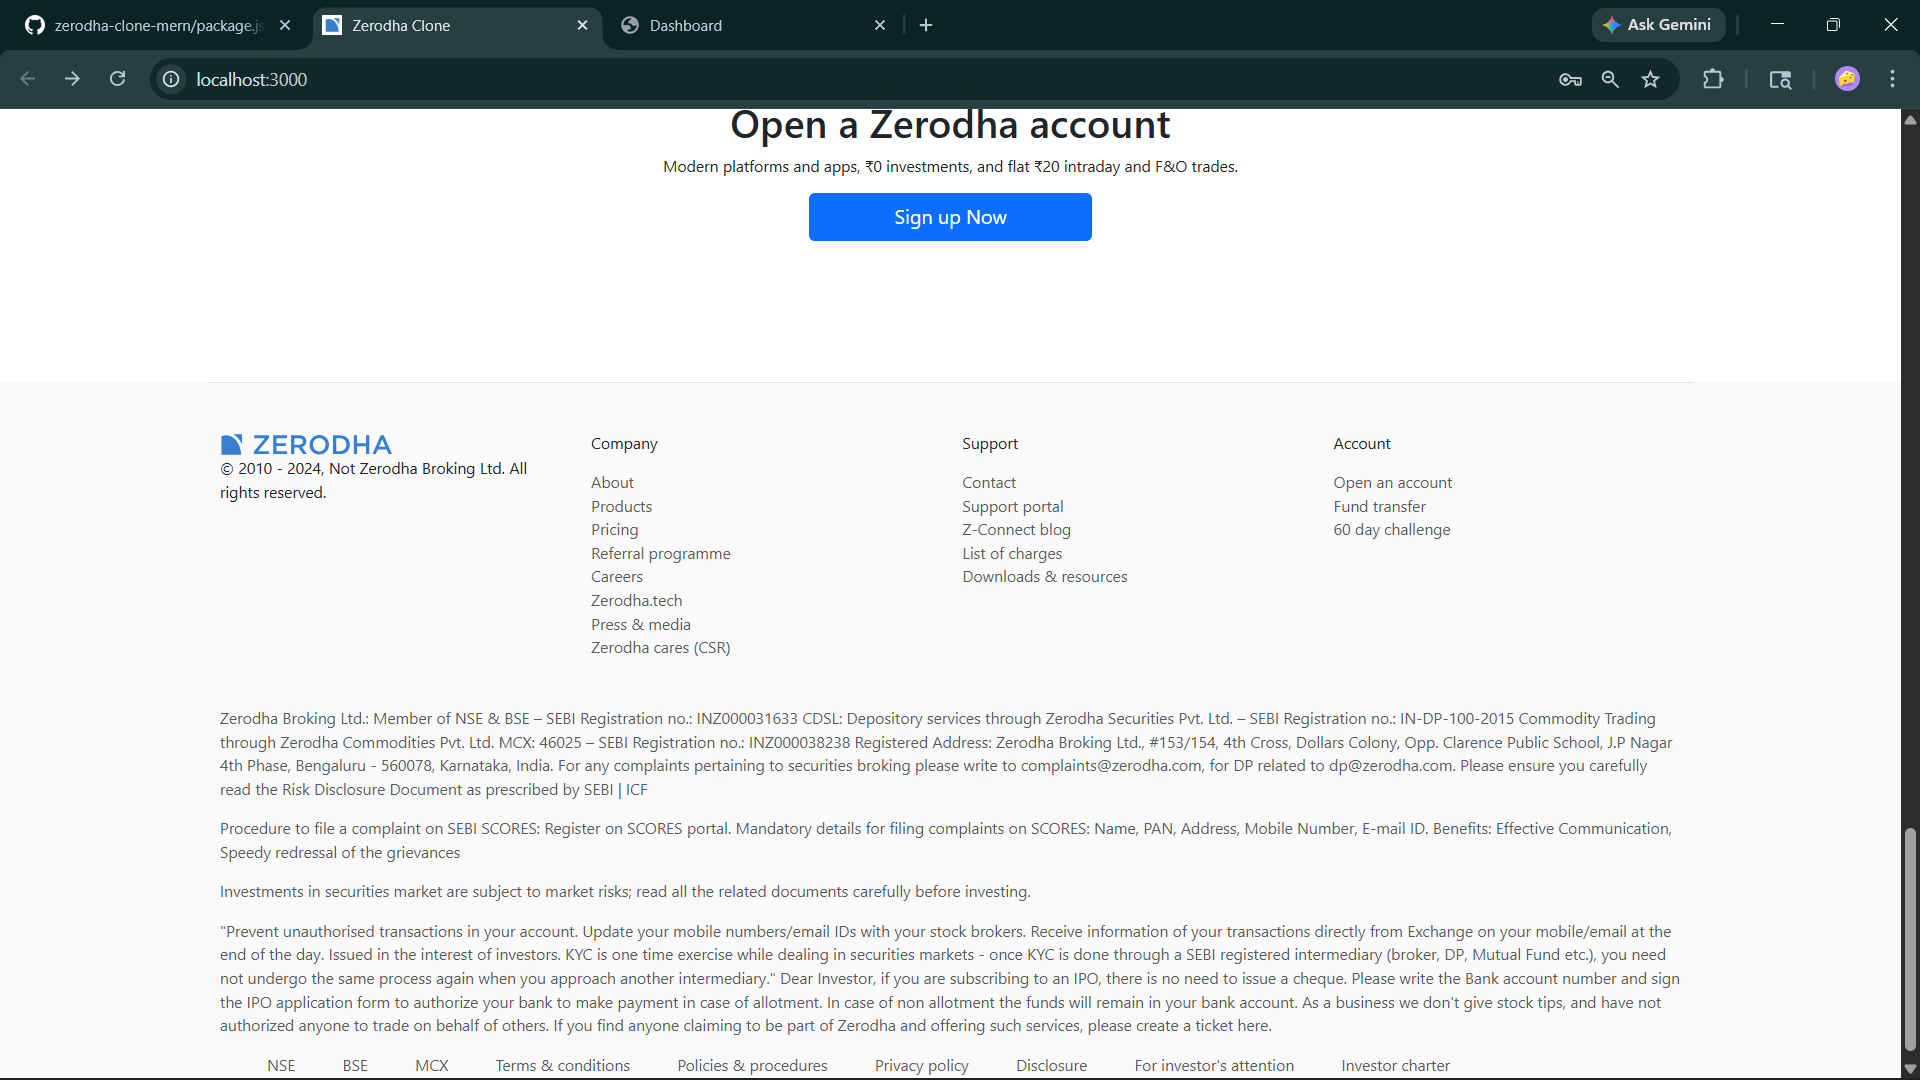
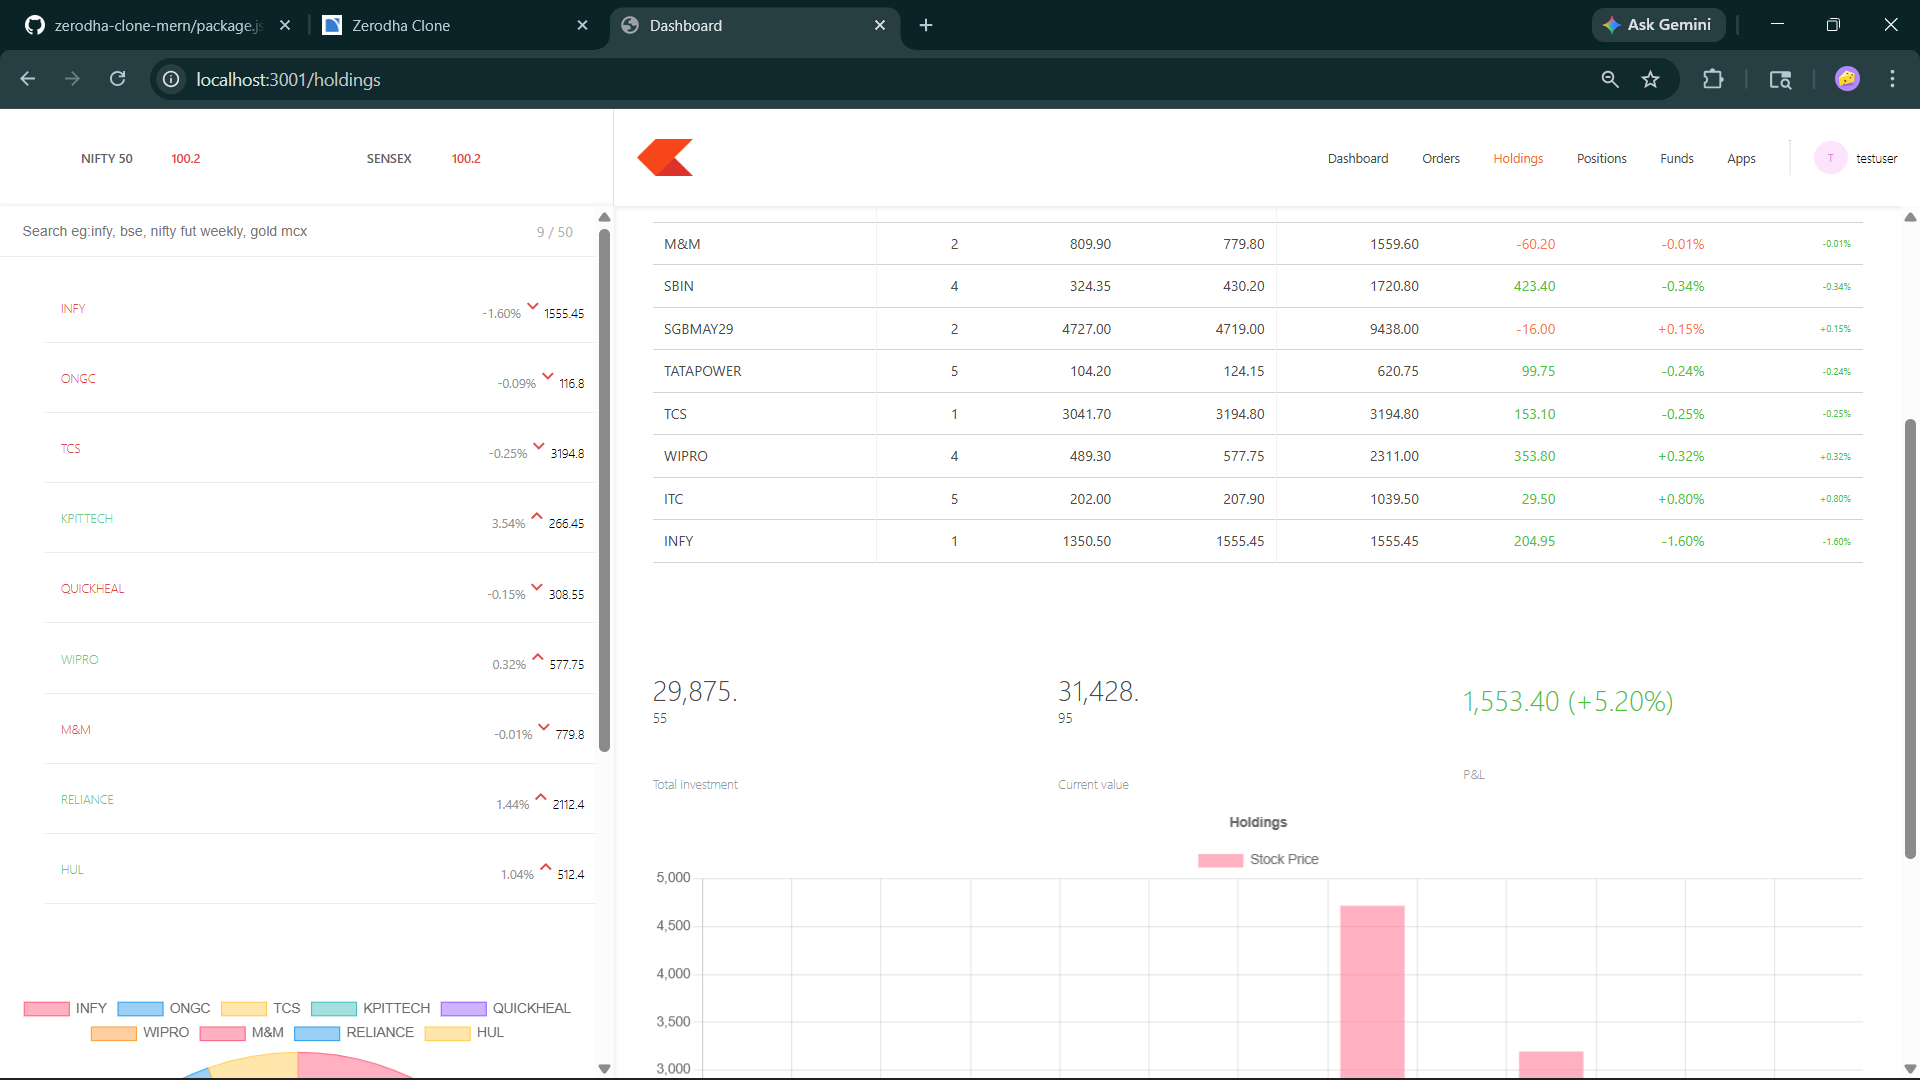
added screenshots

diff --git a/README.md b/README.md
@@ -61,31 +61,31 @@ dashboard
 ## Screenshots
 
 ### Home Page
-![Main Page](frontend/public/media/mainpage1.png)
+![Main Page](frontend/public/media/images/mainpage1.png)
 
 ### Dashboard Overview
-![Dashboard](frontend/public/media/mainpage2.png)
+![Dashboard](frontend/public/media/images/mainpage2.png)
 
 ### Holdings & Analytics
-![Analytics](frontend/public/media/mainpage3.png)
+![Analytics](frontend/public/media/images/mainpage3.png)
 
 ### Login Page
-![Login](frontend/public/media/login1.png)
+![Login](frontend/public/media/images/login1.png)
 
 ### Signup Page
-![Signup](frontend/public/media/signup1.png)
+![Signup](frontend/public/media/images/signup1.png)
 
 ### Support & Ticketing
-![Support](frontend/public/media/support1.png)
+![Support](frontend/public/media/images/support1.png)
 
 ### Ticket Creation Popup
-![Ticket Popup](frontend/public/media/ticket1.png)
+![Ticket Popup](frontend/public/media/images/ticket1.png)
 
 ### Product Page
-![Product](frontend/public/media/product1.png)
+![Product](frontend/public/media/images/product1.png)
 
 ### Pricing Page
-![Pricing](frontend/public/media/pricing1.png)
+![Pricing](frontend/public/media/images/pricing1.png)
 
 ### About Page
-![About](frontend/public/media/about1.png)
+![About](frontend/public/media/images/about1.png)